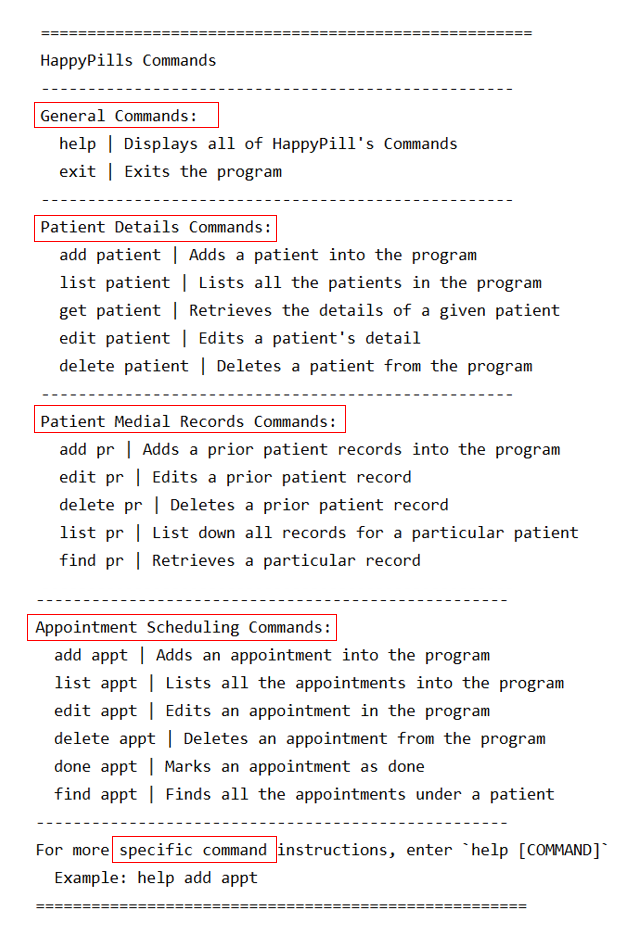
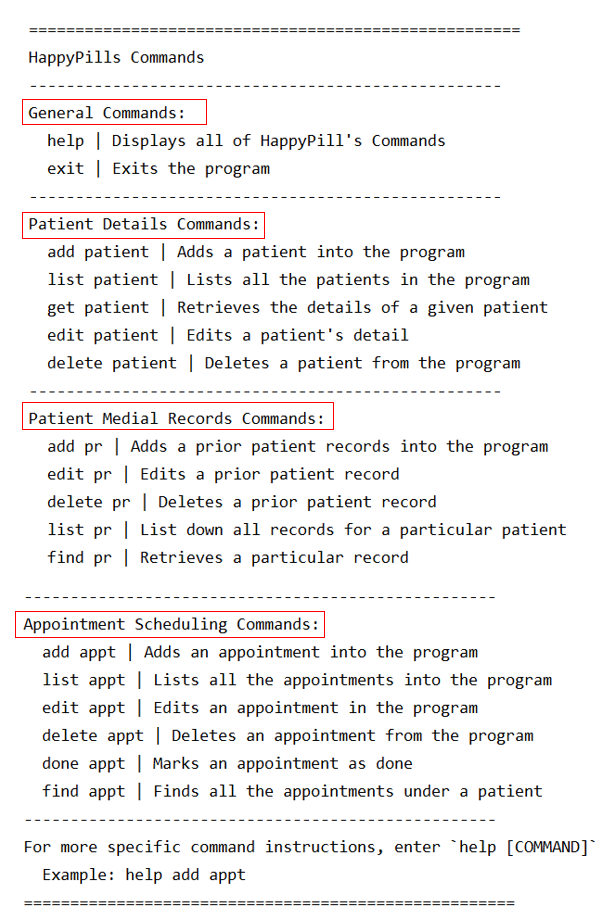
Update UG

Changed region(s): [[0.031, 0.0306, 0.9314, 0.612], [0.031, 0.6426, 0.9624, 1.0]]

diff --git a/docs/UserGuide.md b/docs/UserGuide.md
@@ -19,14 +19,15 @@ By: `Team CS2113T-T12-2` Since `March 2020` License: `MIT`
 HappyPills is a note-taking application that allows doctors to take down notes using Command Line Interface (CLI).
   
 The application replaces all physical papers and is highly optimised for fast typing users.    
-If you can type fast, HappyPills can help to manage patients’ records **faster** than traditional Graphical User Interface (GUI) applications.  
+If you can type fast, HappyPills can help you to manage patients’ records **faster** than traditional Graphical 
+User Interface (GUI) applications.    
 All notes are **neatly organised** in HappyPills so that all your important information are **safely stored**.  
 Say **HELLO** to neater desks and time-saving electronic notes with HappyPills! :relaxed:
 
 ## 2. Quick Start
 **Installation**
-1. Ensure that you have `Java 11` installed in your computer 
-2. Click [here](https://github.com/AY1920S2-CS2113T-T12-2/tp/releases) to download the HappyPills JAR File
+1. Ensure that you have `Java 11` or above installed in your computer. 
+2. Click [here](https://github.com/AY1920S2-CS2113T-T12-2/tp/releases) to download the HappyPills JAR File.
 3. Copy the file to the folder you want to use as your home folder for HappyPills.
 
 **For all users**
@@ -40,13 +41,16 @@ Say **HELLO** to neater desks and time-saving electronic notes with HappyPills! 
 
 HappyPills have three main features: `Patient Details`, `Patient Records` and `Appointment Scheduling`. 
 
-`Patient Details` notes down the general details of the patient such as their NRIC, name, phone number, date of birth, blood type and allergies. 
+`Patient Details` notes down the general details of the patient. (e.g. NRIC, name, phone number, date of birth, 
+blood type and allergies).
 
-`Patient Records` are previous visits to the doctors and the outcomes of it including their symptoms, the diagnosis and when the visit occurred. 
+`Patient Records` documents the patient's previous visits to the doctor and includes detailed information of those visits
+(e.g. patient's symptoms, diagnosis and date/time of the medical treatment).
 
-`Appointment Scheduling` helps the users schedule future appointments with their patients. 
+`Appointment Scheduling` helps the you schedule future appointments with your patients. 
 
-These features come together to help users manage their patients' information and give their patients better service by being able to retrieve their patients' information quickly and easily while also being able to note down details of the visit as accurately as possible. 
+These features come together to help you easily manage their patients' information. You can now provide their patients 
+with better service by being able to retrieve their patients' information quickly and easily.  
 
 This section will elaborate more on how to use these features in HappyPills. 
 
@@ -103,7 +107,7 @@ Format: `help`
   <col width="200">
  <tr>
    <td><span> &#8505; </span></td>
-   <td>The help command is split into five different sections <code>(highlighted by the boxes)</code>.</td>
+   <td>The help command is split into four different sections <code>(highlighted by the boxes)</code>.</td>
  </tr>
 </table>
 

diff --git a/docs/UserGuide-Patient.md b/docs/UserGuide-Patient.md
@@ -20,23 +20,23 @@ HappyPills can help users to manage their patients' information easily.
 
 This feature allows you to add more patients into the existing patients' list.
  
-HappyPills will prompt you if there are any missing fields and ask for confirmation before adding the patient's information into the patients's list.  
+HappyPills will prompt you if there are any missing fields. Instead of having to type the whole command again, 
+you will only need to fill in the couple of fields you missed.
 You can also add a new patient with the specified parameters in any order.
 
-
-###### Usage Example:   
+###### Format:   
 
     add patient /ic NRIC /n NAME /p PHONE_NUMBER /dob DOB /b BLOOD_TYPE /a[ALLERGIES] /rm[REMARKS]
     
 **Example:**
 
     add patient /ic S9876543F /n Eve /dob 22/05/1999 /b O-
-    
+
 >***Expected output:***
 >
 >![MissingInput](images/UG/PATIENT/MissingAddPatientInput.PNG "Missing Add Output")
 >
-> Enter `/p 91265432` to add missing field.
+> 
 
 <table>
   <col width="20">
@@ -47,12 +47,12 @@ You can also add a new patient with the specified parameters in any order.
  </tr>
 </table>
 
+Enter `/p 91265432` to add the missing field.
 
 > ***Expected output:***
 >
 >   ![CheckConfirmAdd](images/UG/PATIENT/addConfirm.PNG "Add Confirmation Output")
 >
-> Enter `y` to confirm.
 
 <table>
   <col width="20">
@@ -64,6 +64,8 @@ You can also add a new patient with the specified parameters in any order.
  </tr>
 </table>
 
+Enter `y` to confirm.
+
 > ***Expected output:***
 >    
 >  ![SuccessfulAdd](images/UG/PATIENT/SuccessfullyAddedPatientInformation.PNG "Successfully Added Output")
@@ -74,7 +76,7 @@ You can also add a new patient with the specified parameters in any order.
 
 Edit information of the patient with the specified NRIC. 
 
-##### Usage example: 
+##### Format: 
  
     edit patient NRIC /n<NAME> 
                       /p<PHONE_NUMBER> 
@@ -116,7 +118,7 @@ Edit information of the patient with the specified NRIC.
 
 Delete a patient as specified by the NRIC. 
 
-##### Usage example: 
+##### Format: 
 
     delete patient NRIC
     
@@ -128,8 +130,6 @@ Delete a patient as specified by the NRIC.
 >
 > ![confirmDelete](images/UG/PATIENT/ConfirmationDeletion.PNG "Delete Confirmation Output")
 >
-> Enter `y` to confirm.
-
 <table>
   <col width="20">
   <col width="200">
@@ -139,6 +139,7 @@ Delete a patient as specified by the NRIC.
  </tr>
 </table>
 
+Enter `y` to confirm.
 
 > ***Expected output:***
 >    
@@ -159,7 +160,7 @@ Delete a patient as specified by the NRIC.
 
 Displays all the patients in the patient list. 
 
-##### Usage example: 
+##### Format: 
 
     list patient
     
@@ -173,7 +174,7 @@ Displays all the patients in the patient list.
 
 Retrieve details of the patient with the specified NRIC.
 
-##### Usage example: 
+##### Format: 
 
     get patient NRIC
     

diff --git a/docs/UserGuide-Appointment.md b/docs/UserGuide-Appointment.md
@@ -21,7 +21,7 @@ HappyPills helps to store appointment schedules.
 Add a new appointment for the patient with the specified NRIC. An appointmentID will be allocated to the
 patient automatically.
  
-##### Usage example: 
+##### Format:
  
      add appt /ic NRIC /d DATE /t TIME /r REASON
          
@@ -44,7 +44,7 @@ patient automatically.
 Edit information of the appointment with the specified appointmentID(apptID).
  The appointment should belong to the patient with the specified NRIC. 
  
-##### Usage example:  
+##### Format:  
  
      edit appt NRIC apptID [Options][editedInput]
      Options:
@@ -66,7 +66,7 @@ Edit information of the appointment with the specified appointmentID(apptID).
 
 Delete an appointment of a patient as specified by the NRIC and appointmentID(apptID). 
 
-##### Usage example:  
+##### Format: 
 
     delete appt NRIC apptID
     
@@ -85,7 +85,7 @@ Delete an appointment of a patient as specified by the NRIC and appointmentID(ap
 Mark the appointment with the specified appointmentID(apptID) as done if arrived.
  The appointment should belong to the patient with the specified NRIC. 
  
-##### Usage example:  
+##### Format:
  
      done appt NRIC apptID
          
@@ -104,7 +104,7 @@ Mark the appointment with the specified appointmentID(apptID) as done if arrived
 List all the existing appointments in the clinic. 
 This can be used as a method to check for appointmentID.
  
-##### Usage example:  
+##### Format: 
  
      list appt
          
@@ -121,7 +121,7 @@ This can be used as a method to check for appointmentID.
 Check all appointments that the patient with the specified NRIC has. 
 This can be used as a method to check for appointmentID.
 
-##### Usage example: 
+##### Format: 
  
      find appt NRIC
          

diff --git a/docs/UserGuide-Records.md b/docs/UserGuide-Records.md
@@ -27,7 +27,7 @@ Add patient's medical records to the database, to support the diagnosis and to j
  </tr>
 </table>
 
-##### Usage example:
+##### Format:
 
     add pr /ic NRIC /sym SYMPTOMS /diag DIAGNOSIS /d DATE /t TIME
     
@@ -55,7 +55,7 @@ Displays all  patient records for the patient using his/her NRIC. Patient's reco
 index which is needed for [find pr](#333-find-patient-records-find-pr), 
 [edit pr](#334-edit-patient-records-edit-pr) and [delete pr](#335-delete-patient-records-delete-pr) commands.
 
-##### Usage example:
+##### Format:
 
     list pr NRIC
 
@@ -90,7 +90,7 @@ index which is needed for [find pr](#333-find-patient-records-find-pr),
 Display detailed information for that particular patient's visit using the NRIC and index of the patient's records 
 which can obtained from the [list pr](#332-list-patient-records-list-pr) command. 
 
-##### Usage example:
+##### Format:
 
     find pr NRIC INDEX
 
@@ -124,7 +124,7 @@ which can obtained from the [list pr](#332-list-patient-records-list-pr) command
 Edit patient's past medical record using the index of the patient's records 
 which can obtained from the [list pr](#332-list-patient-records-list-pr) command.
 
-##### Usage example:
+##### Format:
 
     edit pr NRIC INDEX /sym<SYMPTOMS> 
                        /diag<DIAGNOSIS> 
@@ -170,7 +170,7 @@ which can obtained from the [list pr](#332-list-patient-records-list-pr) command
 Delete patient's medical records based on the given NRIC and the index of the patient's records 
 which can obtained from the [list pr](#332-list-patient-records-list-pr) command.
 
-##### Usage example: 
+##### Format:
 
     delete pr NRIC INDEX
 

diff --git a/docs/team/itskesin.md b/docs/team/itskesin.md
@@ -52,7 +52,8 @@ This section shows a summary of my coding, documentation, and other helpful cont
 
 **Other contributions:**
 - Project management:
-    + Handled releases `v1.0 - v2.1` (3 releases) on GitHub
+    + Handled `v1.0` release on GitHub
+    + Handled the creation of JAR file
     + Created tags on GitHub Issues
     + Maintaining the issue tracker on GitHub
 - Enhancements to existing features:
